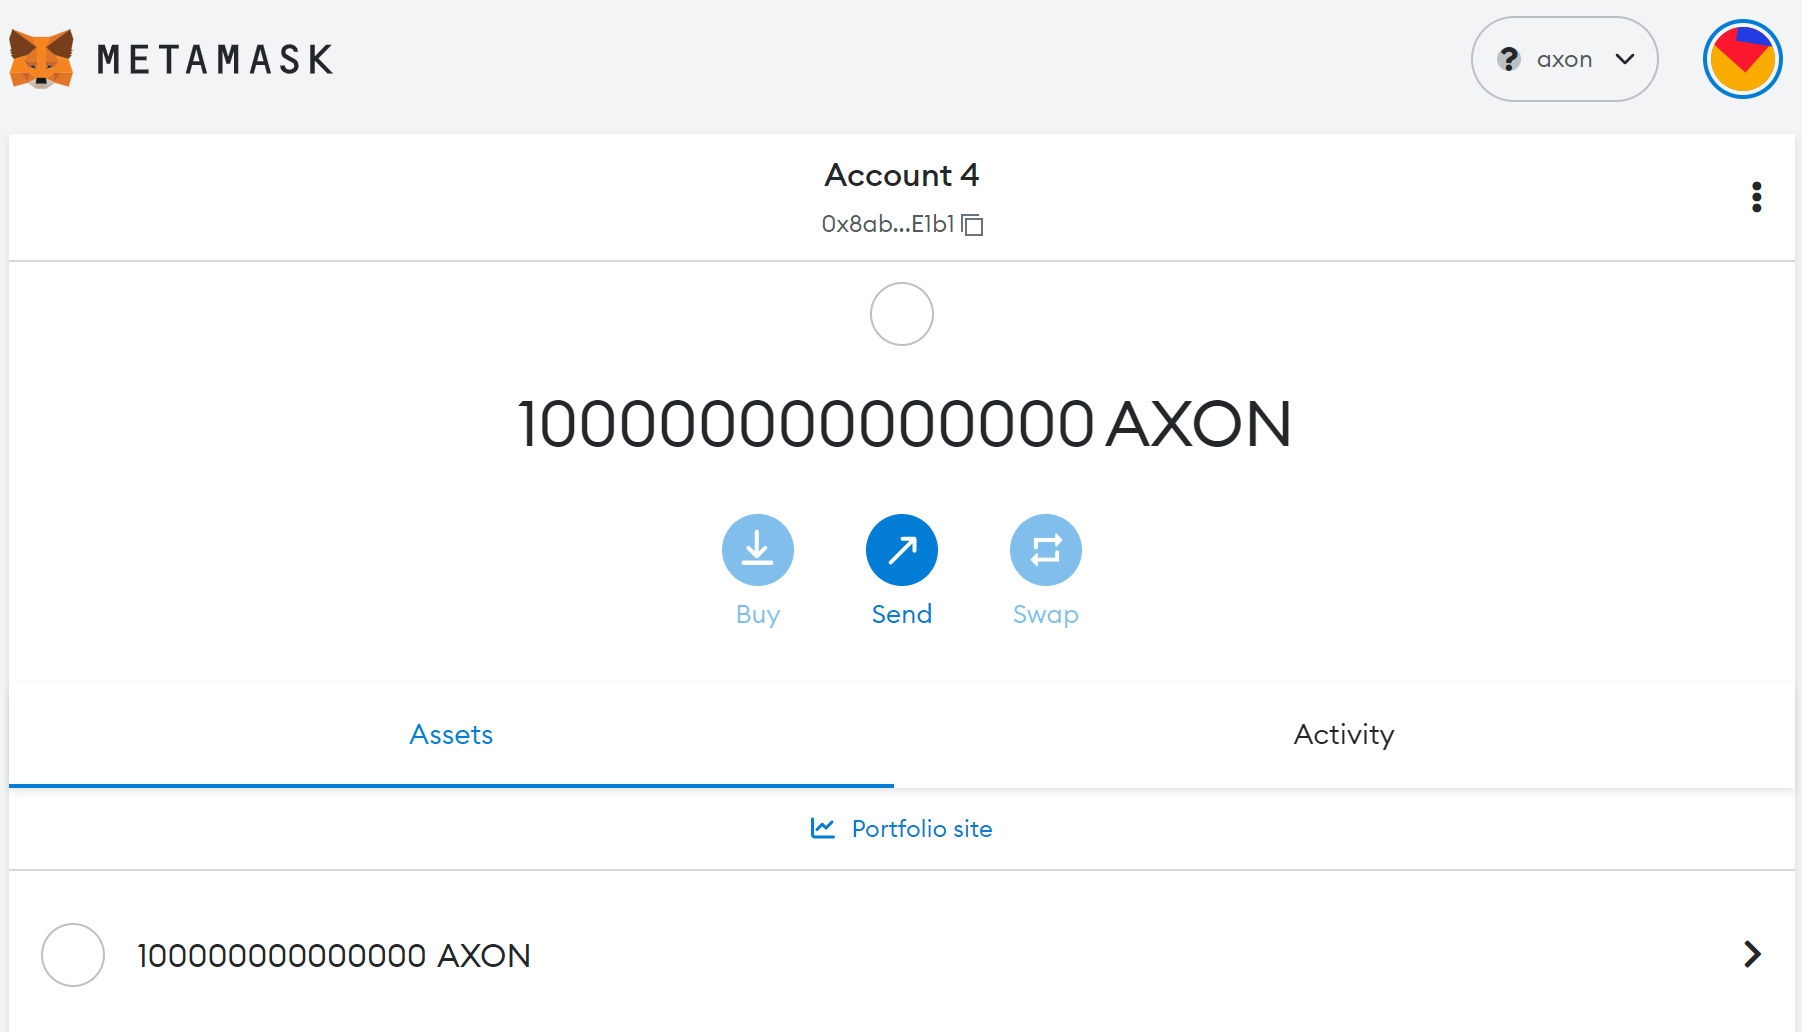
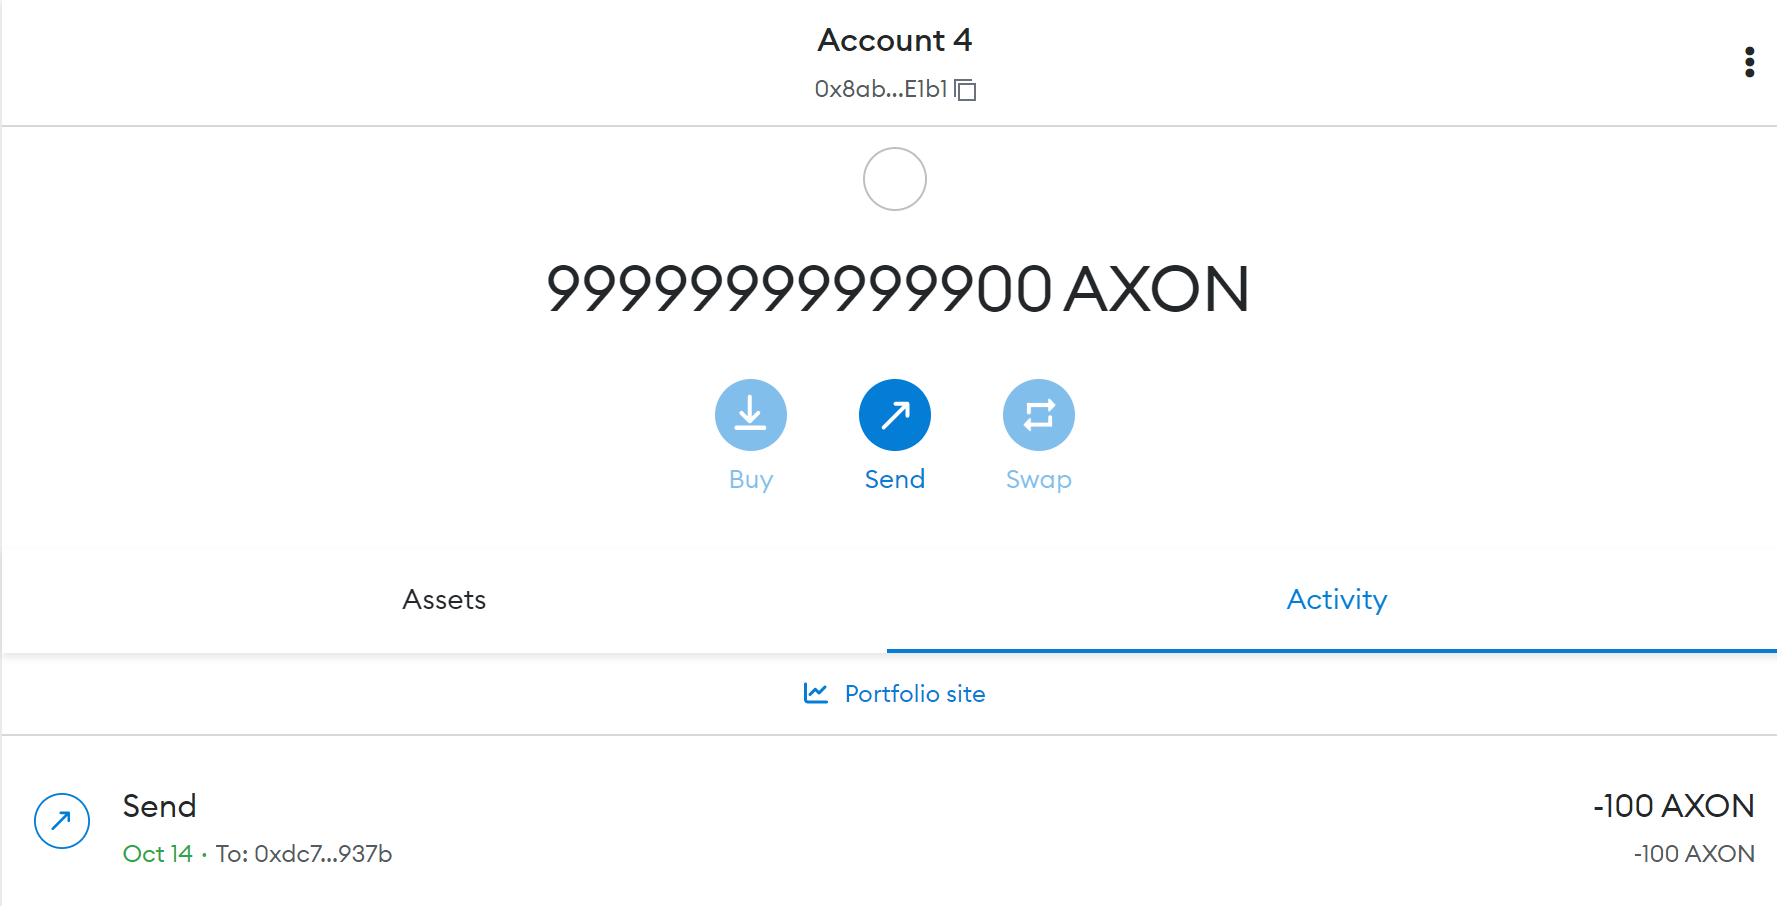
fix: some page styles and send-txs-on-axon pics fix

diff --git a/src/css/custom.css b/src/css/custom.css
@@ -1,4 +1,4 @@
-@import url('https://fonts.googleapis.com/css?family=Montserrat');
+@import url('https://fonts.googleapis.com/css?family=Montserrat:100,200,300,400,400i,500,600,700,700i');
 
 :root {
   --ifm-color-primary: #000000;

diff --git a/docs/for-dapp-devs/Send_Transactions_On_Axon_Via_MetaMask.md b/docs/for-dapp-devs/Send_Transactions_On_Axon_Via_MetaMask.md
@@ -1,0 +1,97 @@
+---
+title: Send Transactions On Axon Via MetaMask
+hide_title: true
+sidebar_position: 2
+---
+
+import useBaseUrl from "@docusaurus/useBaseUrl";
+
+## Send Transactions On Axon Via MetaMask
+
+To proceed with this guide, you must have MetaMask installed. To download Metamask, visit [https://metamask.io/](https://metamask.io/) and you will be automatically guided to the relevant store to download the extension or app based on the device and browser you’re using.
+
+This guide provides instructions for sending transactions on Axon via MetaMask after setting up the Axon local node.
+
+## 1 Set Up a Axon Node
+
+### 1.1 Local Setup
+
+Download Axon from [https://github.com/axonweb3/axon](https://github.com/axonweb3/axon), find *Install* in *README*, and run the following commands to start the node: 
+
+`cargo run --release -- -c devtools/chain/config.toml -g devtools/chain/genesis_single_node.json` 
+
+Following the successful setup of the node, you will notice that the block height is increasing, for instance: > Overlord: state go to new height 2171.
+
+### 1.2 Add Axon to MetaMask's Local Network
+
+#### Open Setting
+
+
+<img alt="open settings" src={useBaseUrl("img/for-dapp-devs/send-transactions-on-axon-via-metamask/2.1_open_settings.png")}  width="50%"/>
+
+#### Choose Networks
+
+<img alt="choose networks" src={useBaseUrl("img/for-dapp-devs/send-transactions-on-axon-via-metamask/2.2_choose_networks.png")}  width="50%"/>
+
+#### Add Network
+
+<img alt="Add network" src={useBaseUrl("img/for-dapp-devs/send-transactions-on-axon-via-metamask/2.3_Add_network.png")}  width="50%"/>
+
+#### Config Axon Network Manually
+
+<img alt="Config Axon Network Manually" src={useBaseUrl("img/for-dapp-devs/send-transactions-on-axon-via-metamask/2.4_Config_Axon_Network_Manually.png")}  width="80%"/>
+
+On the *Networks* page, make sure that the *New RPC URL* and *Chain ID* are configured according to the following information. Copy and paste the text from the boxes below:
+
+**New RPC URL**
+
+```
+ http://localhost:8000
+```
+
+**Chain ID**
+
+```
+2022
+```
+
+If you know Axon well enough, you can modify the *RPC URL* and *Chain ID*. They are in `devtools/chain/config.toml` and `devtools/chain/genesis_single_node.json`.
+
+#### Save Axon Network
+
+Once you have filled out all the items above, click *Save* and you will be notified that the Axon network has been added.
+
+<img alt="Untitled" src={useBaseUrl("img/for-dapp-devs/send-transactions-on-axon-via-metamask/Untitled.png")}  width="80%"/>
+
+## 2 Send a Transaction
+
+### 2.1 Add an Account
+
+Add your Axon Genesis account to the local network. MetaMask supports importing accounts via both private keys and keystore files.
+
+Here we use the private key. In Axon’s repository, find `devtools/chain/config.toml` and copy the corresponding content of the privKey. 
+
[1 lines of base64/hex data omitted]
+
+The account and the balance will be displayed once the adding is complete. The Genesis account holds 1000,000,000,000,00 AXON configured in `devtools/chain/config.toml`.
+
+<img alt="Untitled 1" src={useBaseUrl("img/for-dapp-devs/send-transactions-on-axon-via-metamask/Untitled 1.png")}  width="80%"/>
+
+### 2.2 Send a Transaction
+
+Click *Send* on the balance page and let’s transfer some tokens to another account. Here we are about to transfer 100 AXON to `0xdc796dfc1bb45f21d17be267877c3388d766937b`.
+
+<img alt="Untitled 2" src={useBaseUrl("img/for-dapp-devs/send-transactions-on-axon-via-metamask/Untitled 2.png")}  width="50%"/>
+
+Click *Next.*
+
+<img alt="Untitled 3" src={useBaseUrl("img/for-dapp-devs/send-transactions-on-axon-via-metamask/Untitled 3.png")}  width="50%"/>
+
+Click *Confirm*. 
+
+<img alt="Untitled 4" src={useBaseUrl("img/for-dapp-devs/send-transactions-on-axon-via-metamask/Untitled 4.png")}  width="80%"/>
+
+You'll see that the transaction is in *Pending*. It takes a few seconds for the status to change, then you‘ll know that the transaction has been successful and the balance is 100 AXON less.
+
+<img alt="Untitled 5" src={useBaseUrl("img/for-dapp-devs/send-transactions-on-axon-via-metamask/Untitled 5.png")}  width="80%"/>
+
